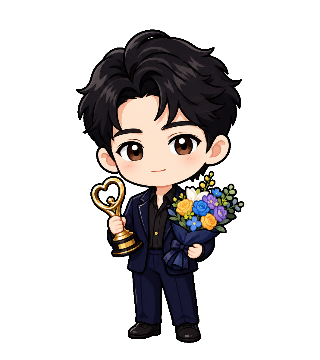
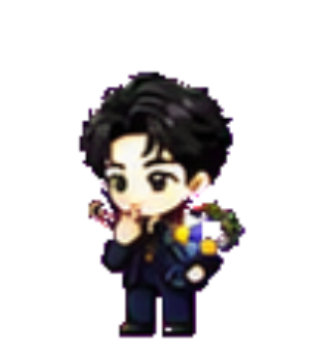
feat: #功能修复

Changed region(s): [[0.2188, 0.0611, 0.7812, 0.9778]]

diff --git a/src/renderer/copilot/pet-copilot/DesktopPet.tsx b/src/renderer/copilot/pet-copilot/DesktopPet.tsx
@@ -124,7 +124,6 @@ type DesktopPetVisualStatus =
 const DESKTOP_PET_DANCE_DURATION_MS = 3000;
 const DESKTOP_PET_DRAG_DIRECTION_THRESHOLD_PX = 3;
 const DESKTOP_PET_IMAGE_HIT_MARGIN = 8;
-const IDOL_PONY_RUNNING_SPRITE_PATH = "./desktop-pet/idol-pony/task-run-left.webp";
 
 function rectContainsPoint(rect: DOMRect, x: number, y: number, margin = 0) {
   return x >= rect.left - margin &&
@@ -150,6 +149,10 @@ function pointIntersectsVisiblePetArea(x: number, y: number) {
     pointIntersectsElement(".desktop-pet-unread-badge", x, y, 4) ||
     pointIntersectsElement(".desktop-pet-speech", x, y) ||
     pointIntersectsElement(".desktop-pet-preview", x, y);
+}
+
+function getDesktopPetTaskRunSpritePath(appearanceId: string) {
+  return `./desktop-pet/${appearanceId}/task-run-left.webp`;
 }
 
 export function DesktopPet() {
@@ -332,7 +335,7 @@ export function DesktopPet() {
     : undefined;
   const taskRunSpriteStyle = shouldShowTaskRunAnimation
     ? {
-        backgroundImage: `url("${IDOL_PONY_RUNNING_SPRITE_PATH}")`
+        backgroundImage: `url("${getDesktopPetTaskRunSpritePath(appearanceId)}")`
       }
     : undefined;
   useEffect(() => {

diff --git a/src/shared/desktop-pet.ts b/src/shared/desktop-pet.ts
@@ -50,6 +50,7 @@ const LEGACY_DESKTOP_PET_BOUND_AGENT_KEY_ALIASES: Record<string, string> = {
 };
 
 const DESKTOP_PET_APPEARANCE_IDS: Set<string> = new Set(DESKTOP_PET_APPEARANCE_OPTIONS.map((option) => option.id));
+const DESKTOP_PET_TASK_RUNNING_APPEARANCE_IDS: Set<string> = new Set(["idol-pony", "xiao"]);
 
 const LEGACY_DESKTOP_PET_APPEARANCE_ID_ALIASES: Record<string, string> = {
   sprout: "dario",
@@ -122,7 +123,7 @@ export function getDesktopPetRunningTaskAnimationDurationMs(runningTaskCount: un
 }
 
 export function shouldUseDesktopPetTaskRunningAnimation(appearanceId: unknown, runningTaskCount: unknown) {
-  return normalizeDesktopPetAppearanceId(appearanceId) === "idol-pony" &&
+  return DESKTOP_PET_TASK_RUNNING_APPEARANCE_IDS.has(normalizeDesktopPetAppearanceId(appearanceId)) &&
     sanitizeDesktopPetRunningTaskCount(runningTaskCount) > 0;
 }
 

diff --git a/src/renderer/styles/pet-copilot.css b/src/renderer/styles/pet-copilot.css
@@ -178,7 +178,8 @@ body.desktop-pet-body,
   animation: desktop-pet-thinking 1.48s ease-in-out infinite;
 }
 
-.desktop-pet-root.is-appearance-idol-pony.has-task-run-animation .desktop-pet-image {
+.desktop-pet-root.is-appearance-idol-pony.has-task-run-animation .desktop-pet-image,
+.desktop-pet-root.is-appearance-xiao.has-task-run-animation .desktop-pet-image {
   filter:
     drop-shadow(0 18px 24px rgba(18, 44, 91, 0.24))
     drop-shadow(0 0 14px rgba(255, 76, 126, 0.18));
